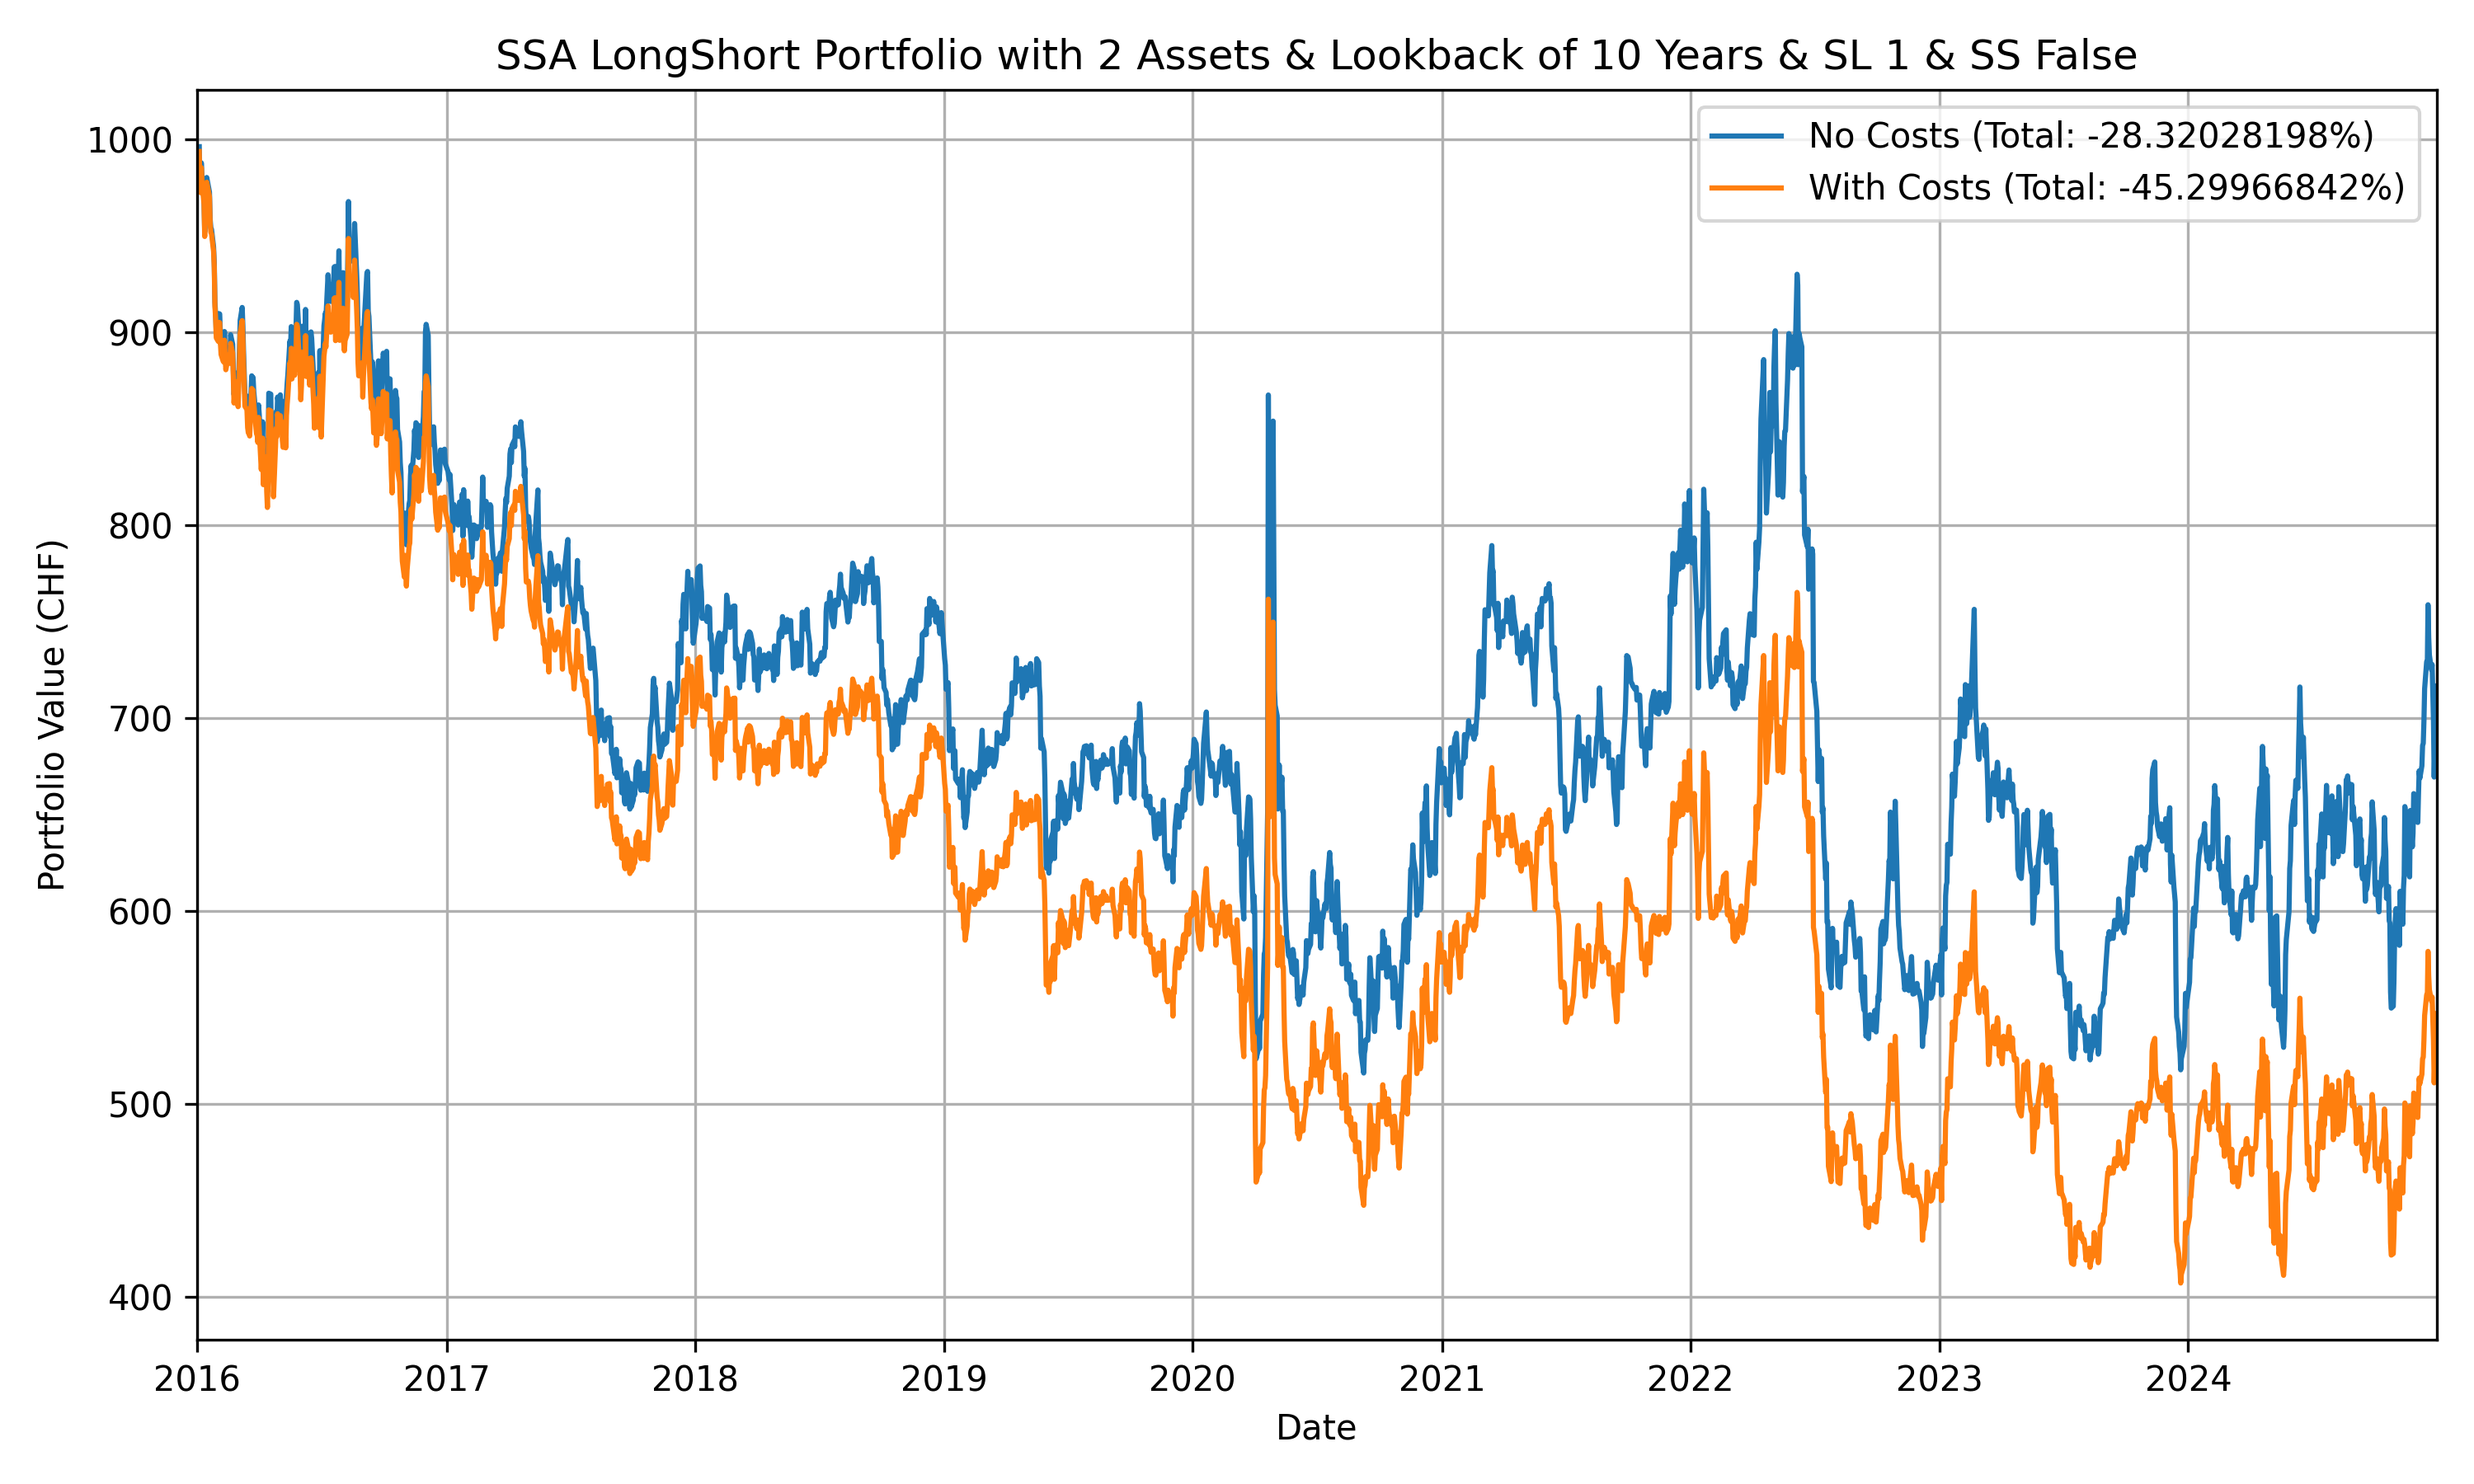
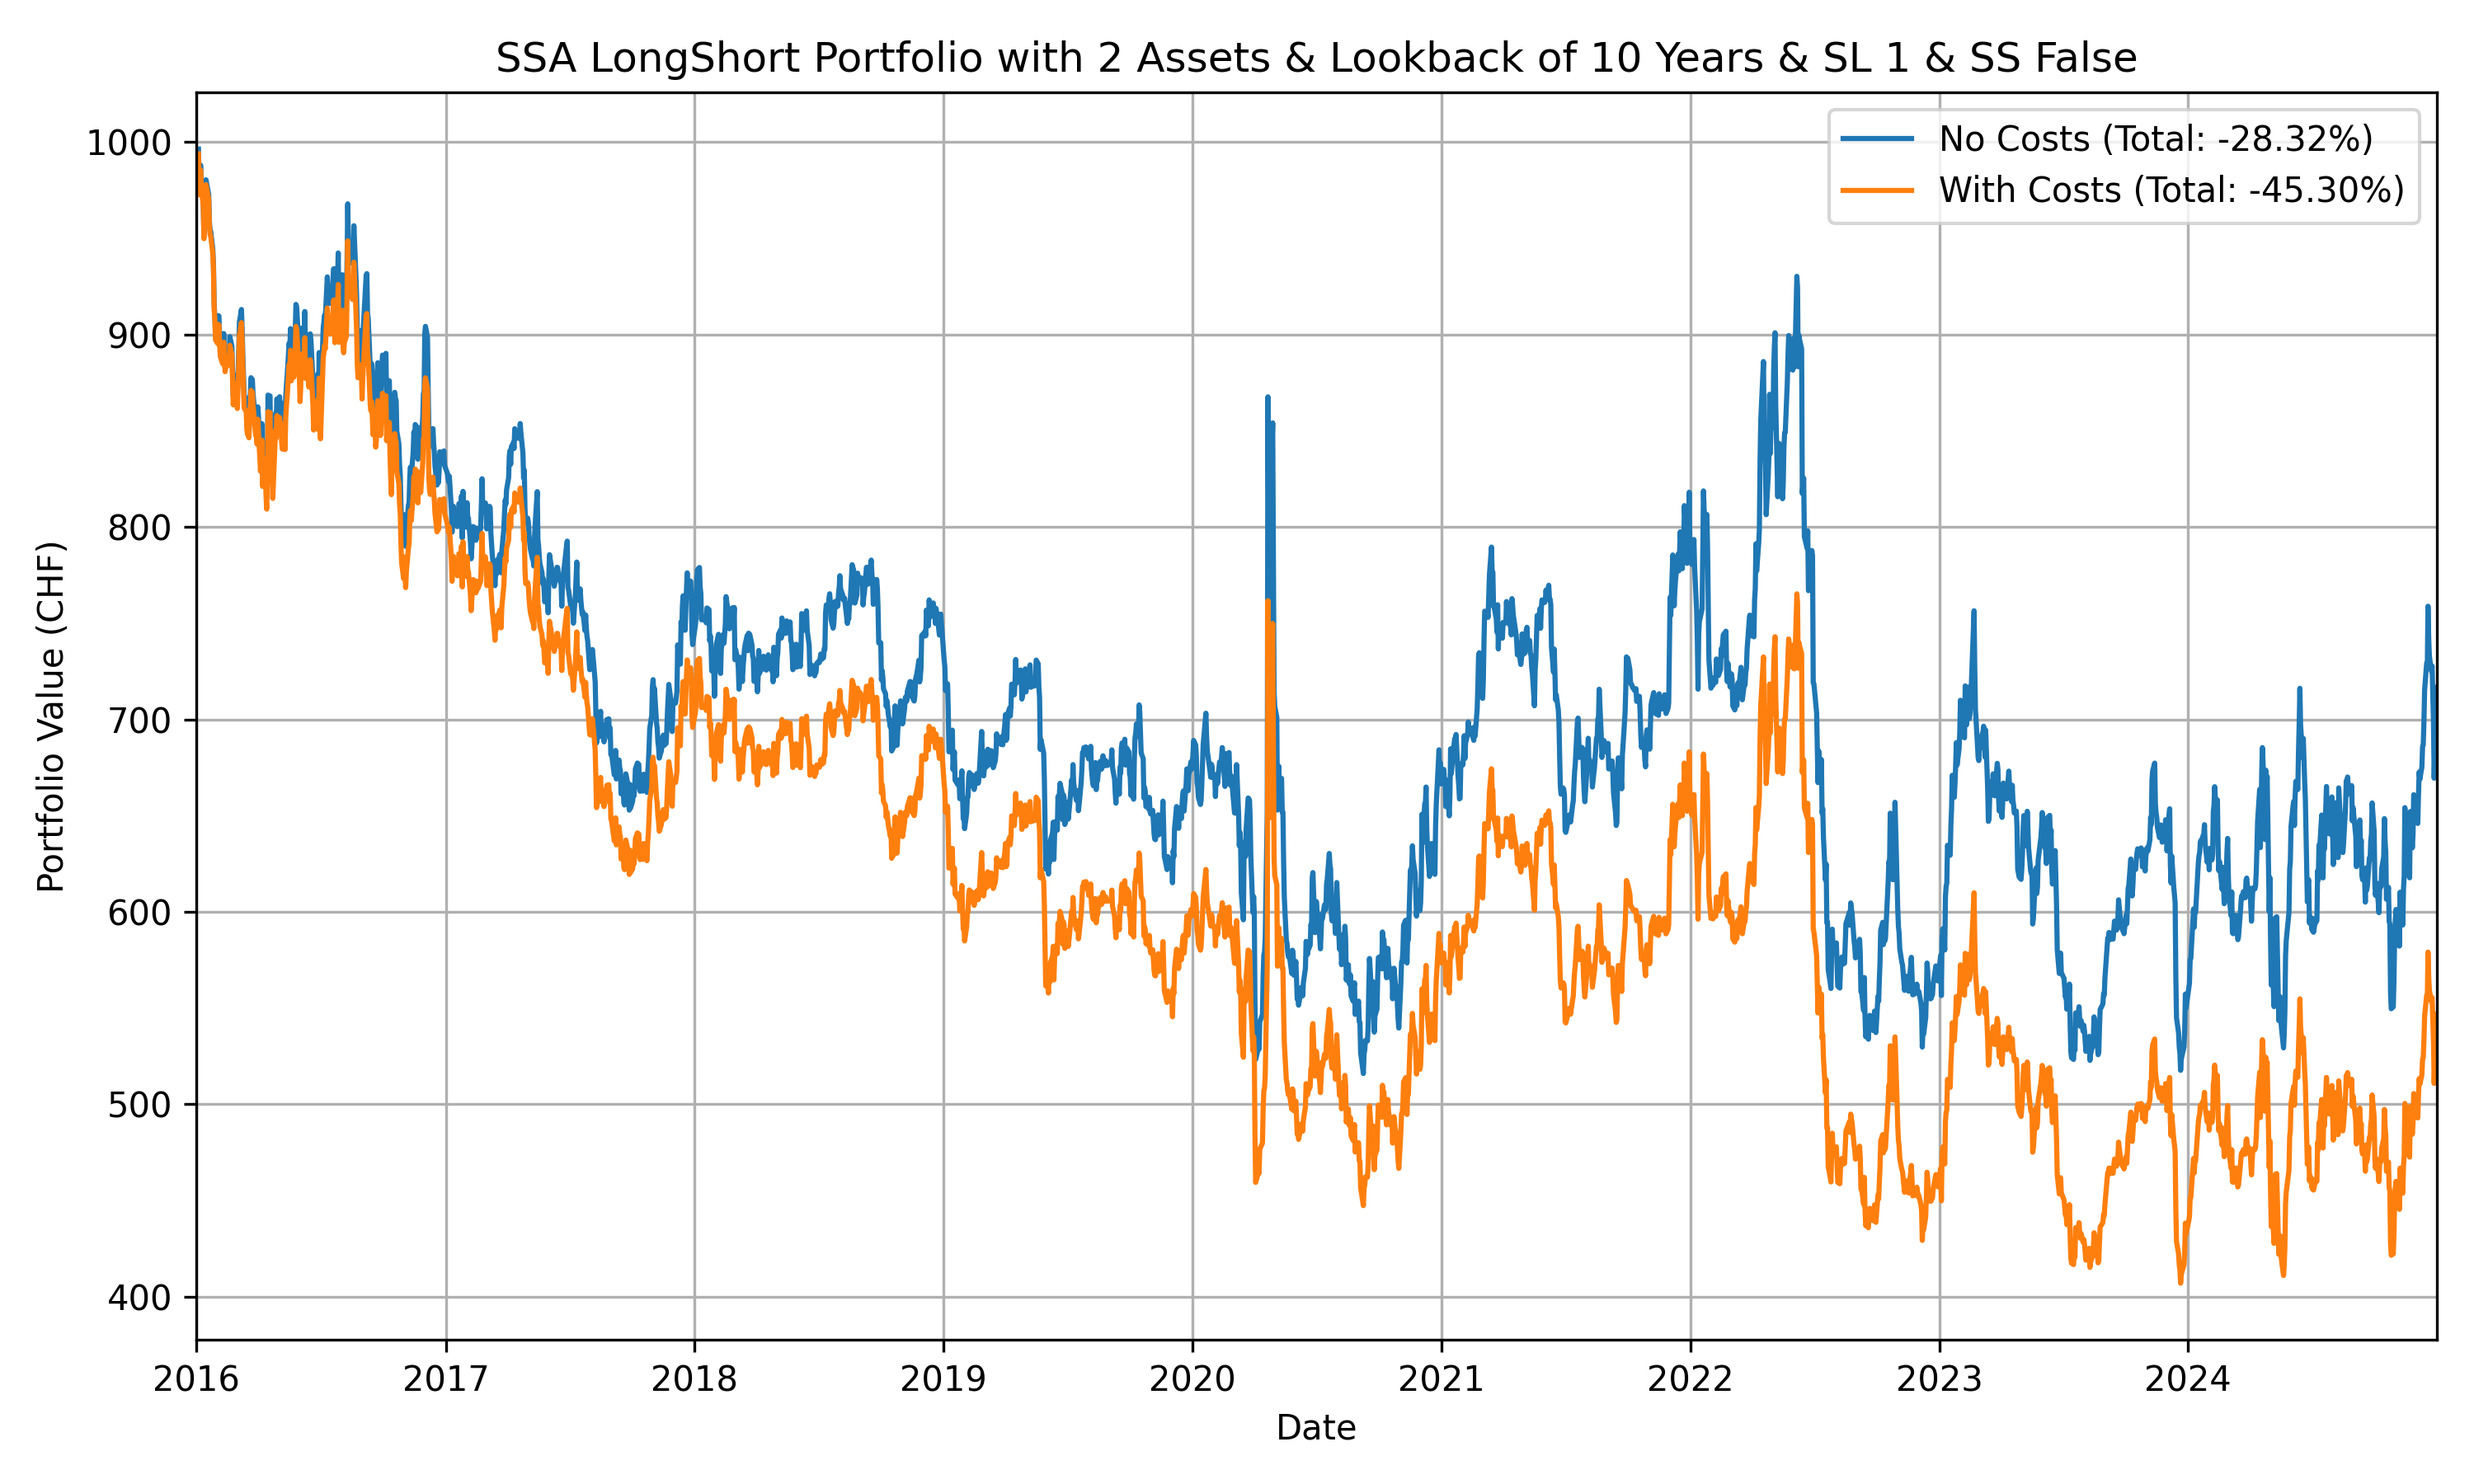
- Minor Adjustements for Debugging and Short Returns Calculation - Recomputing of Graphs

diff --git a/Data Analysis/Seasonality Models/DVR_Portfolio_Ranking.py b/Data Analysis/Seasonality Models/DVR_Portfolio_Ranking.py
@@ -13,10 +13,11 @@ from decimal import Decimal, getcontext
 START_YEAR, START_MONTH = 2001, 1
 FINAL_END       = datetime(2024, 12, 31)
 LOOKBACK_YEARS  = 10
-SIG_LEVEL       = 1
+SIG_LEVEL       = 0.05
 START_VALUE     = 1000.0
 PLOT_START, PLOT_END = datetime(2011, 1, 1), datetime(2024, 12, 31)
 
+DEBUG_DAY = datetime(2011, 1, 1)
 
 # -----------------------------------------------------------------------------
 # 2) DATE RANGES
@@ -127,6 +128,13 @@ while cur <= FINAL_END:
               ))
         X   = sm.add_constant(df['D'])
         res = sm.OLS(df['rtn'], X).fit(cov_type='HAC', cov_kwds={'maxlags':1})
+
+        if DEBUG_DAY == cur:
+            print(df)
+            coef_D = res.params['D']
+            pval_D = res.pvalues['D']
+            print(f"{t}: coef(D) = {coef_D:.4f}, p-value = {pval_D:.4f}, avr = {df.loc[df.month==m,'rtn'].mean()}, avrall = {df.loc[df.month==m,'rtn']}, overall = {df['rtn'].mean()})")
+
         stats.append({
             'ticker': t,
             'beta': res.params['D'],
@@ -145,6 +153,7 @@ while cur <= FINAL_END:
 
     # Long ranking
     sigL = dfm[(dfm.pval<=SIG_LEVEL)&(dfm.beta>0)&(dfm.avg>0)]
+    #sigL = dfm[(dfm.pval <= SIG_LEVEL) & (dfm.avg > 0)]
     restL= dfm.drop(sigL.index,errors='ignore')
     orderL = list(sigL.sort_values('avg',ascending=False).index) \
            + list(restL.sort_values('avg',ascending=False).index)
@@ -153,60 +162,35 @@ while cur <= FINAL_END:
 
     # Short ranking
     sigS = dfm[(dfm.pval<=SIG_LEVEL)&(dfm.beta<0)&(dfm.avg<0)]
+    #sigS = dfm[(dfm.pval <= SIG_LEVEL) & (dfm.avg < 0)]
     restS= dfm.drop(sigS.index,errors='ignore')
     orderS = list(sigS.sort_values('avg',ascending=True).index) \
            + list(restS.sort_values('avg',ascending=True).index)
     orderS += [t for t in tickers if t not in orderS]
     short_rankings[cur]=orderS
 
-    # Capture the model object for the best long & short
-    bestL = orderL[0]
-    bestS = orderS[0]
-    models_long[cur]  = dfm.loc[bestL,'model']
-    models_short[cur] = dfm.loc[bestS,'model']
+    if DEBUG_DAY == cur:
+        print(orderL)
+        print(orderL[0])
+        print(orderS)
+        print(orderS[0])
 
     cur += relativedelta(months=1)
 
 # -----------------------------------------------------------------------------
 # 7) PRINT MONTHLY SELECTION + FULL RANKINGS + REGRESSION SUMMARIES
 # -----------------------------------------------------------------------------
-for dt in sorted(models_long.keys()):
-    bl = long_rankings[dt][0]
-    bs = short_rankings[dt][0]
-
-    rL = simple_rets[bl].get(dt, np.nan)
-    rS = simple_rets[bs].get(dt, np.nan)
-
-    #print(f"\n=== {dt.date()} ===")
-    #print(f"Best Long : {bl}  return {rL:.2%}")
-    #print("Long Ranking with returns:")
-    for rank, tkr in enumerate(long_rankings[dt], start=1):
-        rtn = simple_rets[tkr].get(dt, np.nan)
-        if rank == 1:
-            #print(f"  {dt.date()}. {tkr:4s} → {rtn:.2%}")
-            print(f"{rtn:.4%}")
-    #print(models_long[dt].summary())
-
-    #print(f"\nBest Short: {bs}  return {rS:.2%}")
-    #print("Short Ranking with returns:")
-    for rank, tkr in enumerate(short_rankings[dt], start=1):
-        rtn = simple_rets[tkr].get(dt, np.nan)
-        # invert sign to show the effective P&L direction
-        rtn_display = 1/(1+rtn)-1 if not np.isnan(rtn) else np.nan
-        #print(f"  {rank:2d}. {tkr:4s} → {rtn_display:.2%}")
-        #print(models_short[dt].summary())
-
-# -----------------------------------------------------------------------------
-# Calculate cumulative returns for all ranks
-# -----------------------------------------------------------------------------
+print(long_rankings)
+print("lol")
 long_cum_df, _   = compute_cum(long_rankings,  direction='long')
+print(long_cum_df)
 short_cum_df, _  = compute_cum(short_rankings, direction='short')
 
 # -----------------------------------------------------------------------------
 # Print the top‑17 long portfolios
 # -----------------------------------------------------------------------------
 print("\nCumulative returns for LONG portfolios (ranks 1–17):")
-for rank in range(1, 17):
+for rank in range(1, 18):
     cum = long_cum_df.loc[rank, 'cum_ret']
     print(f" Rank {rank:2d}: {cum:.2%}")
 
@@ -214,7 +198,7 @@ for rank in range(1, 17):
 # Print the top‑17 short portfolios
 # -----------------------------------------------------------------------------
 print("\nCumulative returns for SHORT portfolios (ranks 1–17):")
-for rank in range(1, 17):
+for rank in range(1, 18):
     cum = short_cum_df.loc[rank, 'cum_ret']
     print(f" Rank {rank:2d}: {cum:.2%}")
 

diff --git a/Data Analysis/Seasonality Models/RLSSA_Portfolio_Ranking.py b/Data Analysis/Seasonality Models/RLSSA_Portfolio_Ranking.py
@@ -20,6 +20,8 @@ SSA_WINDOW      = 12
 SSA_COMPS       = 2
 SIG_LEVEL       = 0.05
 
+DEBUG_DAY       = datetime(2023, 7, 1)
+
 PLOT_START, PLOT_END = datetime(2016, 1, 1), datetime(2024, 12, 31)
 
 START_VALUE     = 1000.0
@@ -118,7 +120,7 @@ ROOT_DIR = Path().resolve().parent.parent / "Complete Data"
 log_rets = load_monthly_returns(ROOT_DIR/"All_Monthly_Log_Return_Data")
 simple_rets = load_monthly_returns(ROOT_DIR/"All_Monthly_Return_Data")
 ssa_score = build_ssa_history(log_rets)
-print(ssa_score)
+#print(ssa_score.to_string())
 tickers = list(log_rets)
 NUM_T = len(tickers)
 
@@ -130,6 +132,8 @@ cur = FIRST_TRADE
 while cur <= SSA_END:
     block = ssa_score.loc[cur - relativedelta(years=CALIB_YEARS):
                           cur - relativedelta(months=1)]
+    if DEBUG_DAY == cur:
+        print(f"{cur}: {block}")
     mu, sd = block.mean(), block.std(ddof=1)
     raw = []
     for t in tickers:
@@ -162,13 +166,16 @@ while cur <= SSA_END:
         key=lambda x: x[1]
     )
 
-    print(df)
-
     # build full ordered lists of tickers
     ordL = [t for t,_,_,_ in longs] + [t for t,_,_,_ in restL]
     ordS = [t for t,_,_,_ in shorts] + [t for t,_,_,_ in restS]
-    print(ordS)
 
+    if DEBUG_DAY == cur:
+        print("------------------------------------------------")
+        print(ordL)
+        print(ordL[0])
+        print(ordS)
+        print(ordS[0])
 
     long_rank[cur]  = ordL
     short_rank[cur] = ordS

diff --git a/Data Analysis/Seasonality Models/RLSSA_Scoring_Framework.py b/Data Analysis/Seasonality Models/RLSSA_Scoring_Framework.py
@@ -10,8 +10,8 @@ L                   = 12    # SSA window length
 q                   = 2     # Number of L1‐robust components
 K_SELECT            = 2     # How many tickers to long/short
 # Define analysis window by year & month:
-START_YEAR, START_MONTH             = 2001, 1
-FINAL_END_YEAR, FINAL_END_MONTH     = 2010, 12
+START_YEAR, START_MONTH             = 2004, 6
+FINAL_END_YEAR, FINAL_END_MONTH     = 2014, 5
 # Lookback in years (None => full history)
 LOOKBACK_YEARS      = None
 
@@ -57,7 +57,7 @@ def rlssa_score(series: pd.Series, L: int, q: int):
 
 # --- Gather assets ---
 project_root = Path().resolve().parent.parent
-monthly_dir  = project_root / "Complete Data" / "All_Monthly_Return_Data"
+monthly_dir  = project_root / "Complete Data" / "All_Monthly_Log_Return_Data"
 paths        = list(monthly_dir.glob("*_Monthly_Revenues.csv"))
 ASSET_LIST   = [p.stem.replace("_Monthly_Revenues","") for p in paths]
 
@@ -71,6 +71,7 @@ for ticker in ASSET_LIST:
 
     # restrict to our analysis window
     df = df.loc[start_date:final_end]
+    print(df)
 
     # apply lookback if requested
     if LOOKBACK_YEARS is not None:

diff --git a/Data Analysis/Seasonality Models/SSA_Portfolio_Ranking.py b/Data Analysis/Seasonality Models/SSA_Portfolio_Ranking.py
@@ -193,21 +193,11 @@ def compute_cum(rankings, direction='long'):
         rows.append({'rank': float(r), 'cum_ret': total})
     return pd.DataFrame(rows).set_index('rank'), holdings
 
-
-# then call:
-long_cum, long_hold   = compute_cum(long_rank,  'long')
-short_cum, short_hold = compute_cum(short_rank, 'short')
-
-pd.set_option('display.precision', 30)
-
-print("\nLong cumulative by rank:\n", long_cum)
-print("\nShort cumulative by rank:\n", short_cum)
-
 # -----------------------------------------------------------------------------
 # Calculate cumulative returns for all ranks
 # -----------------------------------------------------------------------------
-long_cum_df, _   = compute_cum(long_rankings,  direction='long')
-short_cum_df, _  = compute_cum(short_rankings, direction='short')
+long_cum_df, _   = compute_cum(long_rank,  direction='long')
+short_cum_df, _  = compute_cum(short_rank, direction='short')
 
 # -----------------------------------------------------------------------------
 # Print the top‑17 long portfolios

diff --git a/Data Analysis/Seasonality Models/SSA_Portfolio_Creator.py b/Data Analysis/Seasonality Models/SSA_Portfolio_Creator.py
@@ -16,9 +16,9 @@ CALIB_YEARS     = 5
 FINAL_END       = datetime(2024, 12, 31)
 
 NUM_SELECT      = 2
-STRICT_SEL      = True
+STRICT_SEL      = False
 MODE            = "LongShort"   # "Long", "Short", or "LongShort"
-SIG_LEVEL       = 0.05
+SIG_LEVEL       = 1
 
 SSA_WINDOW      = 12
 SSA_COMPS       = 2
@@ -330,9 +330,9 @@ output_dir.mkdir(exist_ok=True)
 
 plt.figure(figsize=(10,6))
 plt.plot(perf.index, perf['NoCosts'],
-         label=f'No Costs (Total: {tot_nc:.8f}%)')
+         label=f'No Costs (Total: {tot_nc:.2f}%)')
 plt.plot(perf.index, perf['WithCosts'],
-         label=f'With Costs (Total: {tot_wc:.8f}%)')
+         label=f'With Costs (Total: {tot_wc:.2f}%)')
 plt.xlabel('Date'); plt.ylabel('Portfolio Value (CHF)')
 plt.title(f'SSA {MODE} Portfolio with {NUM_SELECT} Assets & Lookback of {LOOKBACK_YEARS} Years & SL {SIG_LEVEL} & SS {STRICT_SEL}')
 plt.legend(); plt.grid(True)

diff --git a/Data Analysis/Seasonality Models/DVR_Scoring_Framework.py b/Data Analysis/Seasonality Models/DVR_Scoring_Framework.py
@@ -6,7 +6,7 @@ from dateutil.relativedelta import relativedelta
 # ----------------------------
 # User settings
 # ----------------------------
-end_date       = "2024-11-20"
+end_date       = "2010-12-20"
 LOOKBACK_YEARS = 10
 SIGN_LEVEL     = 1
 
@@ -48,7 +48,7 @@ for tkr, series in returns.items():
     obs_count   = len(s)
     first_date  = s.index.min().date()
     last_date   = s.index.max().date()
-    mean_return = s.mean()
+    mean_return = s[s.index.month == next_month].mean()
     std_return  = s.std(ddof=1)
 
     # dummy regression for next_month

diff --git a/Data Analysis/Seasonality Models/RLSSA_Portfolio_Creator.py b/Data Analysis/Seasonality Models/RLSSA_Portfolio_Creator.py
@@ -17,9 +17,9 @@ CALIB_YEARS     = 5
 FINAL_END       = datetime(2024, 12, 31)
 
 NUM_SELECT      = 2
-STRICT_SEL      = False
+STRICT_SEL      = True
 MODE            = "LongShort" # "Long", "Short", or "LongShort"
-SIG_LEVEL       = 1
+SIG_LEVEL       = 0.05
 
 SSA_WINDOW      = 12
 SSA_COMPS       = 2
